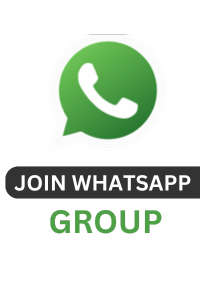
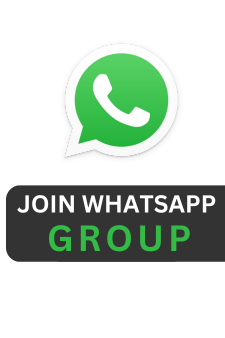
payment gateway integrate in both

Changed region(s): [[0.0, 0.54, 1.0, 0.78], [0.27, 0.09, 0.81, 0.48]]

diff --git a/public/front/css/custom.css b/public/front/css/custom.css
@@ -18,7 +18,7 @@
     border-radius: 8px;
 }
 .whatsapp_message {
-    width: 72px;
+    width: 100px;
     height: auto;
     position: fixed;
     right: 0;

diff --git a/resources/views/front/pages/ganesh/group/show.blade.php b/resources/views/front/pages/ganesh/group/show.blade.php
@@ -965,6 +965,27 @@ $(document).ready(function() {
                         </ul>
                     </div>
 
+                    <div class="lg:space-y-4 lg:pb-8 max-lg:grid sm:grid-cols-2 max-lg:gap-6 mb-10"
+                        uk-sticky="media: 1024; end: #js-oversized; offset: 80">
+                        <div class="box p-5 px-6">
+                            <a 
+                            	target="_blank"
+                            	href="https://api.whatsapp.com/send?phone=919137634193&text=*Hello%20Alivecreate%20Web%20Solutions-%20Inquiry%20from%Barodaplus%20-%20Website%206,999/-.%20*"></a>
+                                <img  
+                                src="https://imagedelivery.net/zfs38w7w3E1dJVvB3mVs9g/fa365b8e-eacd-4063-a145-a1a909220f00/md" style="width:100%;"/>
+                            </a>
+                        </div>
+
+                        <div class="box p-5 px-6 mb-6">
+                            <a
+                            	target="_blank"
+                            	 href="https://api.whatsapp.com/send?phone=918401194152&text=*Hello%20મેહુલભાઈ,%20લોન,%20જમીન%20અને%20મકાન%20માટેની%20વધુ%20માહિતી%20જણાવો%20-%20,From-%20બરોડાપ્લસ.*"></a>
+                                <img src="https://imagedelivery.net/zfs38w7w3E1dJVvB3mVs9g/3316dc6e-4992-4be7-63f6-41b0dcbbaf00/md" style="width:100%;"/>
+                            </a>
+                        </div>
+
+                    </div>
+
                 </div>
             </div>
 

diff --git a/resources/views/front/ext/scripts.blade.php b/resources/views/front/ext/scripts.blade.php
@@ -1,5 +1,6 @@
-<img src="{{asset('front/images/web')}}/join-whatsapp.png" class="whatsapp_message" />
-
+<a href="https://chat.whatsapp.com/JjCoTMCPKy4AiaJLcIedO3" target="_blank">
+    <img src="https://imagedelivery.net/zfs38w7w3E1dJVvB3mVs9g/bb4df606-909e-4884-343d-0cbea8007300/md" class="whatsapp_message" />
+</a>
 <!-- Javascript  -->
           <script src="{{asset('front')}}/js/uikit.min.js"></script>
           <script src="{{asset('front')}}/js/simplebar.js"></script>
